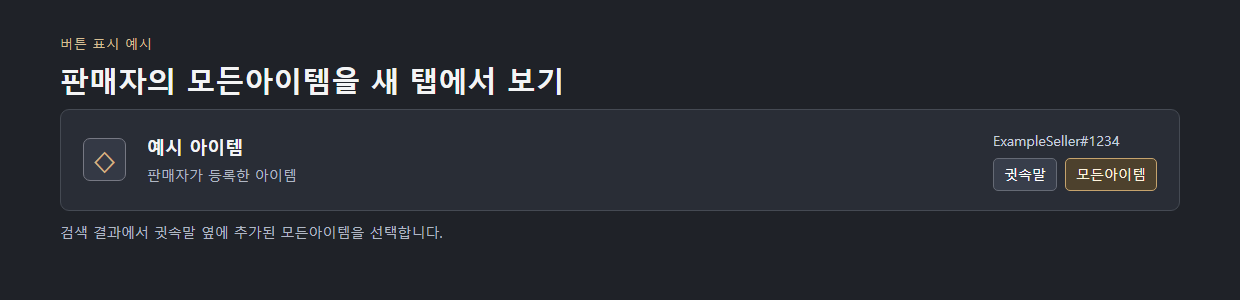
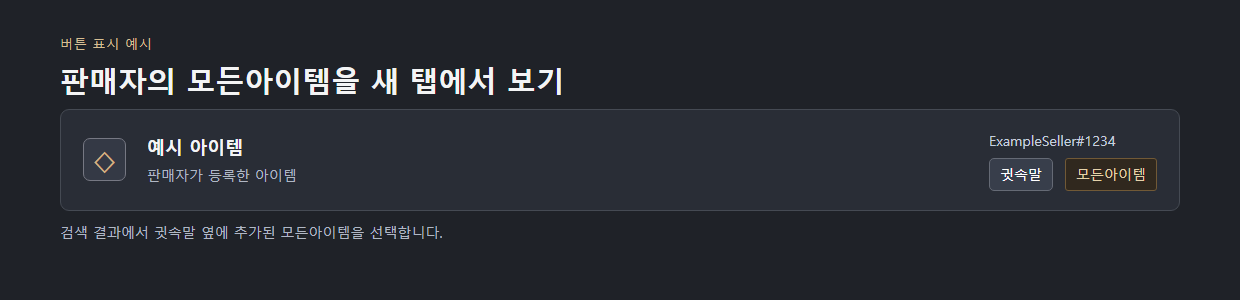
feat: style the extension and publish personal-use terms

Changed region(s): [[0.7968, 0.45, 0.95, 0.66]]

diff --git a/chrome-poe-all-items/trade-results.css b/chrome-poe-all-items/trade-results.css
@@ -1,0 +1,24 @@
+.btn.poe-all-items-button {
+  margin-inline-start: 4px;
+  border-color: #715936;
+  border-radius: 3px;
+  background: #30281e;
+  color: #e5d2aa;
+  white-space: nowrap;
+}
+
+.btn.poe-all-items-button:hover,
+.btn.poe-all-items-button:focus {
+  border-color: #998052;
+  background: #413426;
+  color: #f4e3bd;
+}
+
+.btn.poe-all-items-button:focus-visible {
+  outline: 2px solid #bda06a;
+  outline-offset: 2px;
+}
+
+.btn.poe-all-items-button[hidden] {
+  display: none;
+}

diff --git a/README.md b/README.md
@@ -1,5 +1,7 @@
 # PoE 거래소 모든아이템
 
+![금빛 상자 모양의 확장 프로그램 아이콘](chrome-poe-all-items/icons/icon-128.png)
+
 카카오 **Path of Exile 1 거래소**에서 판매자의 공개 매물을 한 번에 보는 무료 브라우저 확장 프로그램입니다. 검색 결과의 **귓속말** 오른쪽에 **모든아이템**을 표시합니다. 즉시 구매 매물에서는 **은신처로 이동** 옆에 표시됩니다. 누르면 현재 리그의 해당 판매자 목록이 공식 거래소 새 탭에서 열립니다.
 
 **[최신 버전 ZIP 다운로드](https://github.com/ez2sarang/poeUsersAllTradePlugIn/releases/latest/download/chrome-poe-all-items.zip)** · [릴리스 목록](https://github.com/ez2sarang/poeUsersAllTradePlugIn/releases)
@@ -17,7 +19,7 @@
 
 4. 확장 프로그램 목록에 **PoE 거래소 모든아이템**이 보이고 활성화 스위치가 켜졌는지 확인합니다.
 
-   ![PoE 거래소 모든아이템 1.0.1이 활성화된 설치 완료 화면](images/03-installed.png)
+   ![금빛 상자 아이콘과 활성화 스위치가 표시된 설치 완료 화면](images/03-installed.png)
 
 5. [카카오 PoE 1 아이템 거래소](https://poe.kakaogames.com/trade)로 이동합니다. 이미 열어 둔 거래소 탭은 새로고침하고, 아이템을 검색한 뒤 결과 행의 **모든아이템**을 눌러 봅니다.
 
@@ -25,9 +27,13 @@
 
 ## 기존 버전 업데이트
 
-새 ZIP을 풀고, 기존에 로드한 폴더 안의 `manifest.json`과 `trade-results.js`를 새 파일로 교체합니다. 브라우저 확장 프로그램 관리 화면에서 **PoE 거래소 모든아이템** 카드의 새로고침 아이콘을 누른 뒤, 거래소 탭도 새로고침합니다.
+새 ZIP을 풀고, 기존에 로드한 폴더 안에 새 `chrome-poe-all-items` 폴더의 내용물을 복사해 덮어씁니다. 브라우저 확장 프로그램 관리 화면에서 **PoE 거래소 모든아이템** 카드의 새로고침 아이콘을 누른 뒤, 거래소 탭도 새로고침합니다.
 
-1.0.1은 버튼이 공식 거래소 링크를 직접 열도록 변경했습니다. Chrome 계열 Chromium과 Brave에서 한글 계정, 새 탭, 같은 탭에서 리그를 바꾼 뒤의 동작을 확인했습니다.
+1.0.2에는 금빛 상자 아이콘과 어두운 황갈색 버튼을 적용했습니다. Chrome 계열 Chromium과 Brave에서 한글 계정, 새 탭, 같은 탭에서 리그를 바꾼 뒤의 동작을 확인했습니다.
+
+## 사용 허가
+
+공식 배포본의 개인적·비상업적 설치와 사용을 허용합니다. 재배포, 판매, 제품에 포함해 배포하는 경우 사전 서면 허가가 필요합니다. 공유할 때는 이 저장소나 공식 배포 페이지의 링크를 사용해 주세요. [전문 보기](LICENSE)
 
 ## 문의
 
